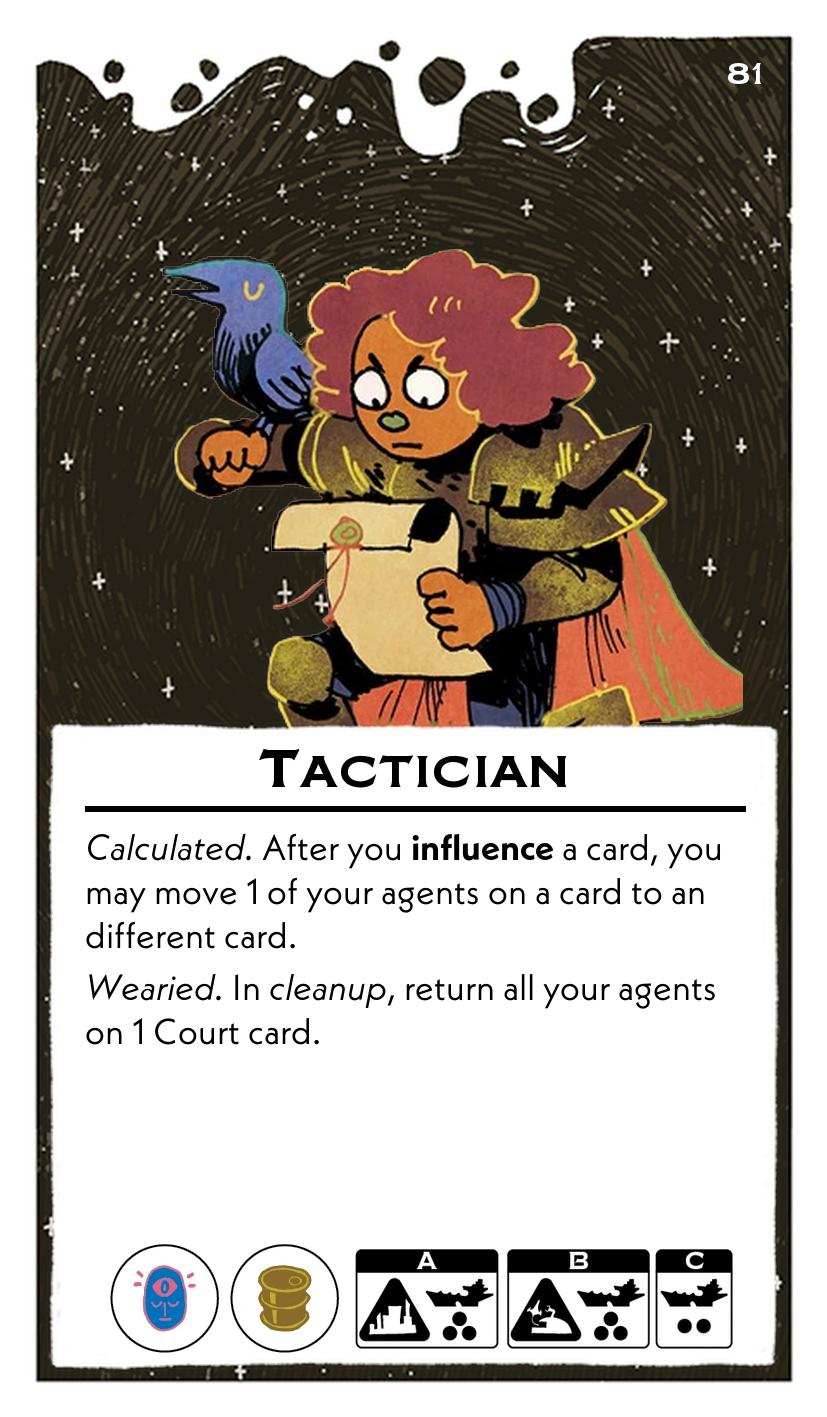
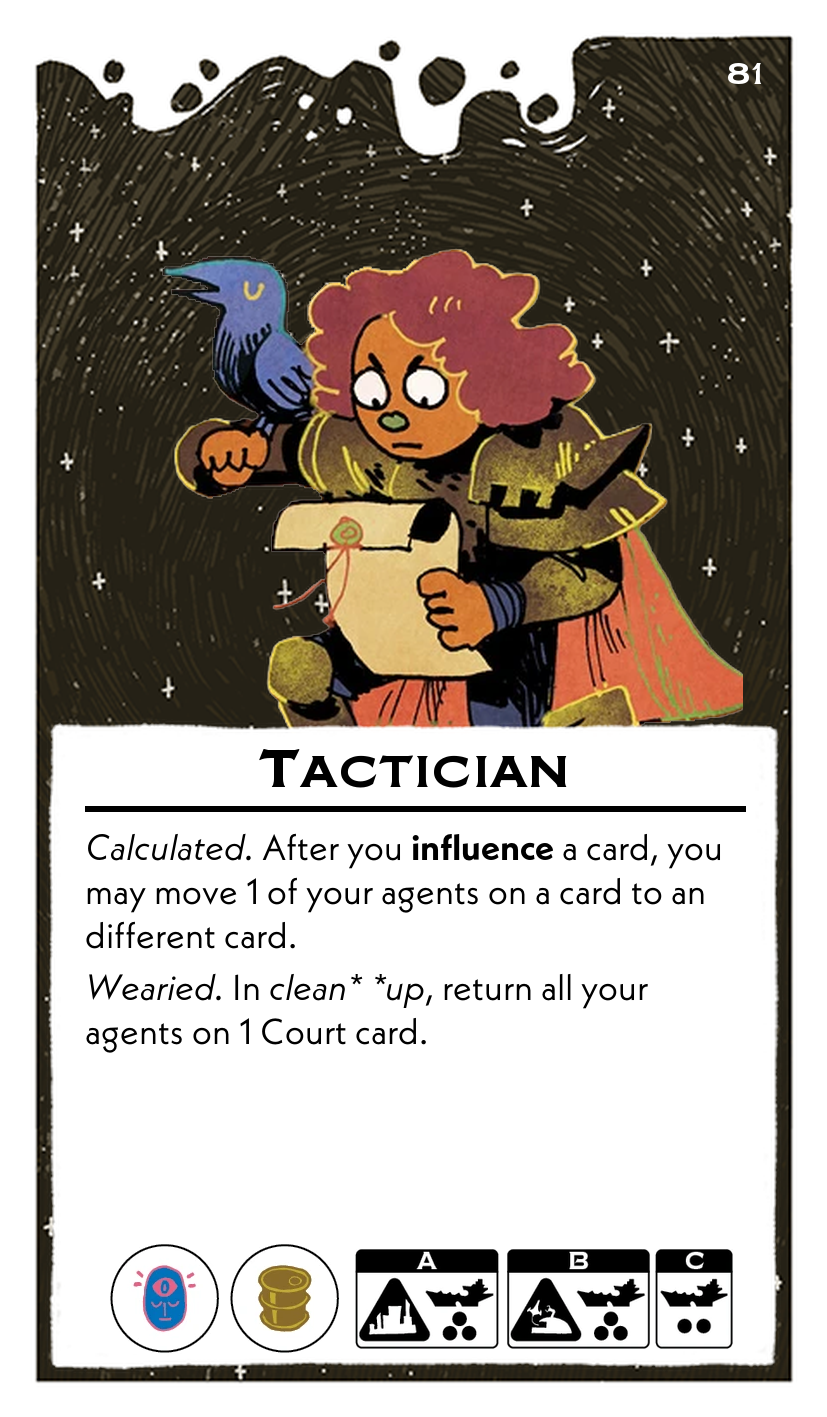
tactician

Changed region(s): [[0.0907, 0.6831, 0.8767, 0.7452]]

diff --git a/scripts/leadersFormatted.py b/scripts/leadersFormatted.py
@@ -1232,7 +1232,7 @@ leaders = [
         "name": "Tactician",
         "abilities": (
             "*Calculated.* After you **influence** a card, you may move 1 of your agents on a card to an different card.\n"
-             "*Wearied.* In *cleanup*, return all your agents on 1 Court card."
+             "*Wearied.* In *clean** **up*, return all your agents on 1 Court card."
         ), 
         "resources": ["Psionic", "Fuel"],
         "setup": {
